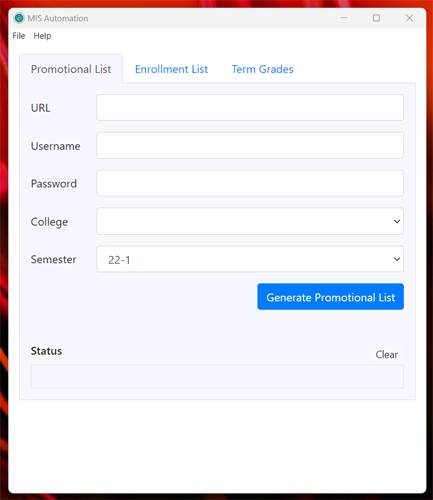
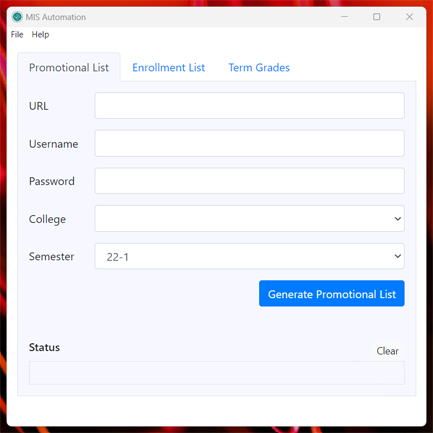
Updated screenshots

diff --git a/README.MD b/README.MD
@@ -10,8 +10,10 @@ Automation software. A GUI app, automates the generation of promotional list, en
 
 ***
 ## Screenshots
-![automatic](images/screenshot.png)
-Sample screenshot
+![screenshot](images/screenshot.png)
+![screenshot](images/screenshot-2.png)
+
+Sample screenshots
 
 ## Development
 
